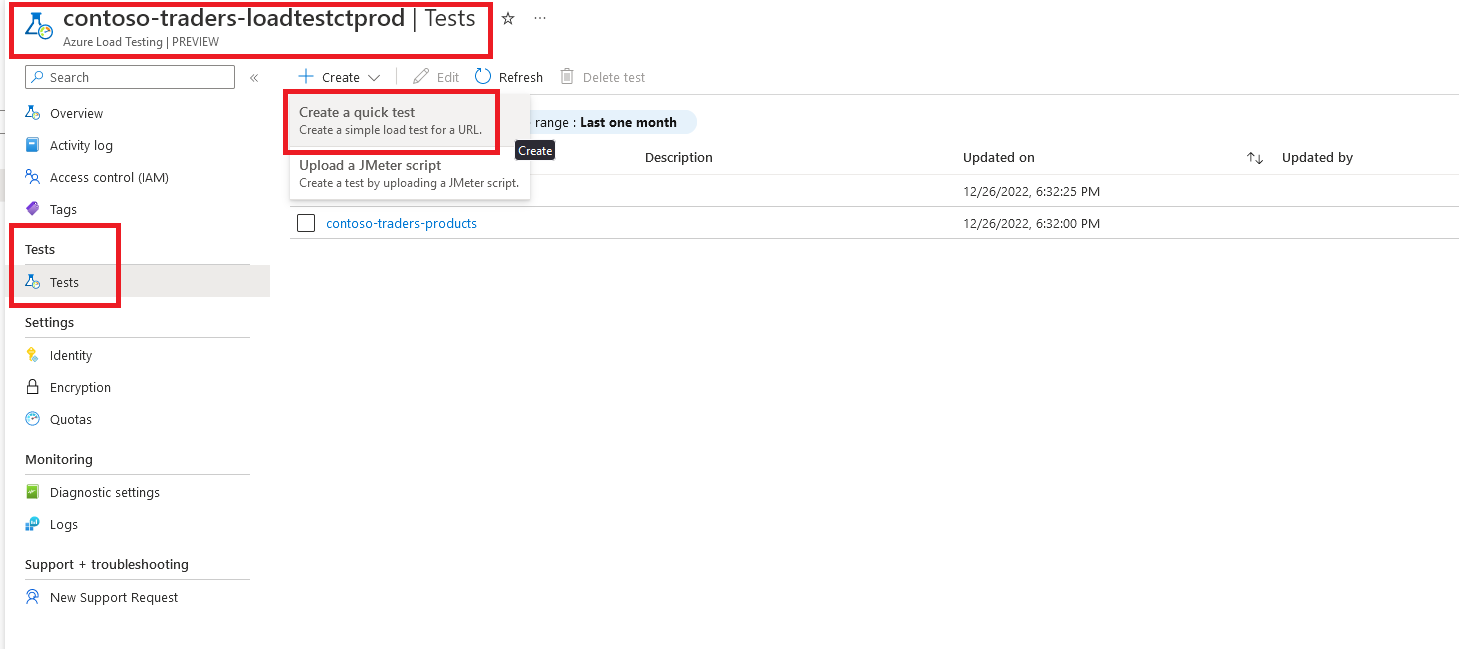
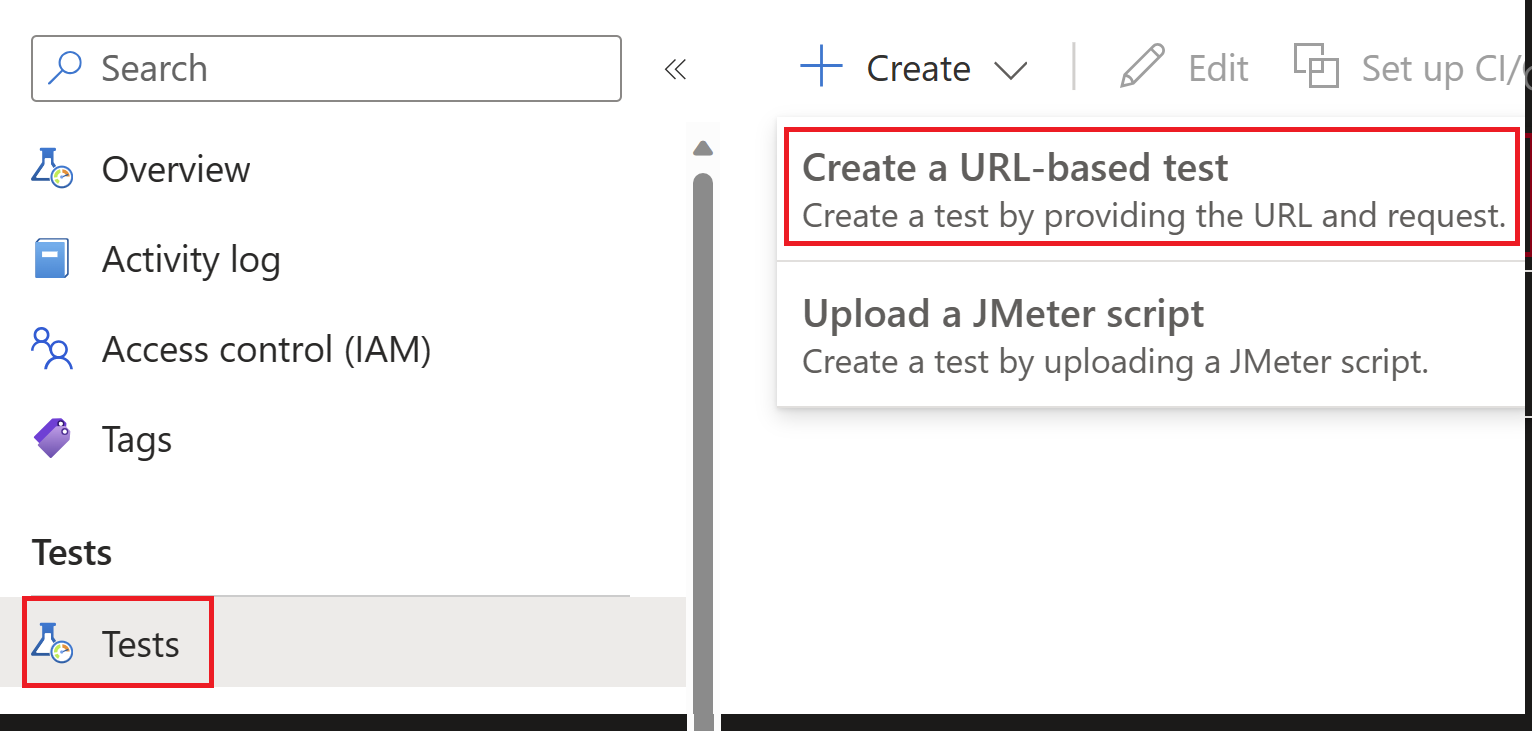
Update quick test to URL-based Test.

diff --git a/demo-scripts/azure-load-testing/walkthrough.md b/demo-scripts/azure-load-testing/walkthrough.md
@@ -40,11 +40,11 @@ Please execute the steps outlined in the [deployment instructions](../../docs/de
 
    ![load testing](./media/load-test-browse.png)
 
-2. You can create a new load test as follows: Navigate to the `Tests` section, and then click on `Create` > `Create a Quick Test` button.
+2. You can create a new load test as follows: Navigate to the `Tests` section, and then click on `Create` > `Create a URL-based Test` button.
 
    ![load testing](./media/load-test-create-1.png)
 
-3. In the `Quick Test` blade, you can specify the target URL. You can also specify the number of concurrent users, and the duration of the test. See example below:
+3. In the `Basic` blade, you can specify the target URL. You can also specify the number of concurrent users, and the duration of the test. See example below:
 
    ![load testing](./media/load-test-create-2.png)
 
